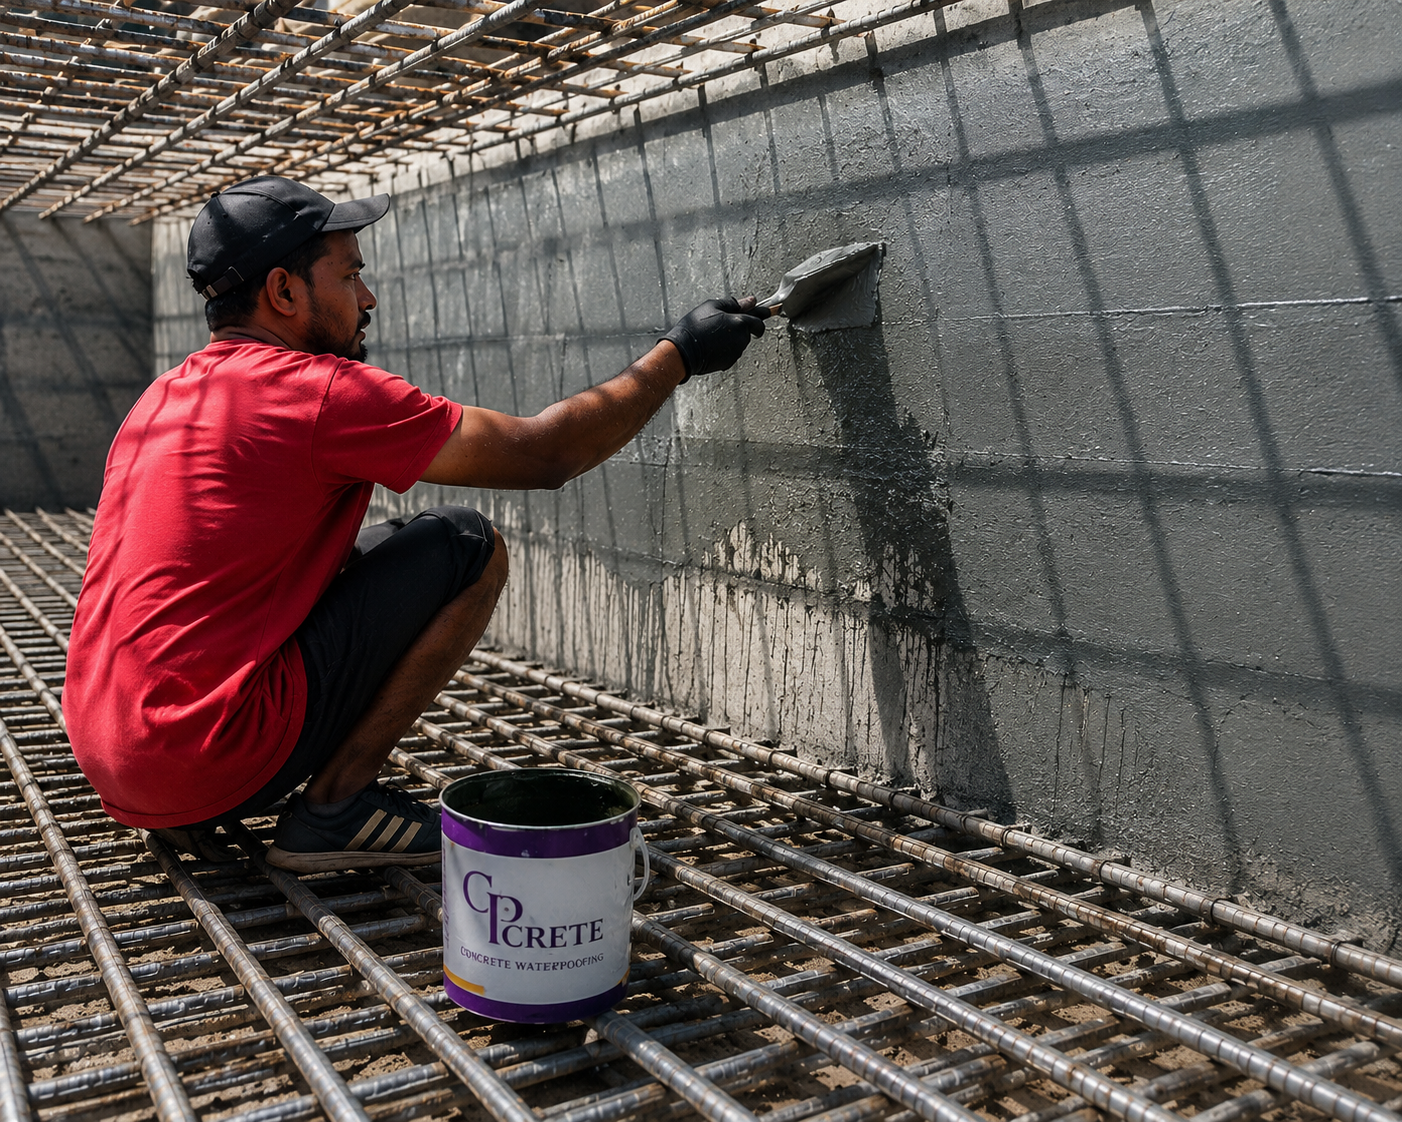
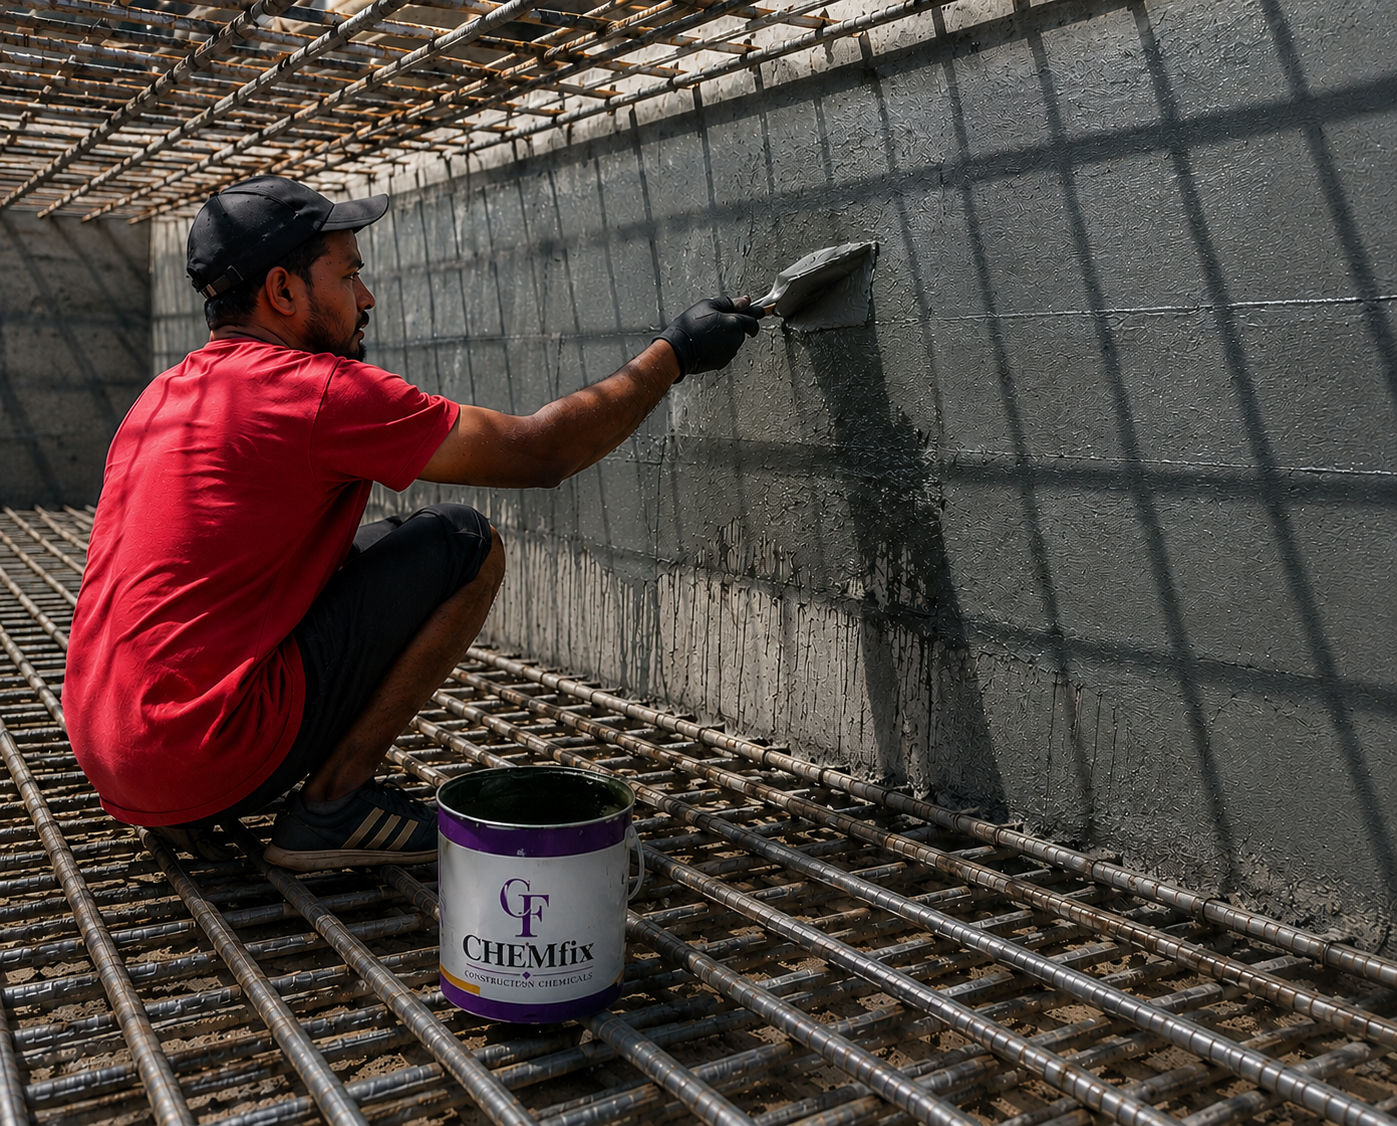
s

diff --git a/src/routes/index.tsx b/src/routes/index.tsx
@@ -1,3 +1,4 @@
+import { useEffect, useMemo, useState } from "react";
 import { Link } from "react-router-dom";
 import { motion } from "framer-motion";
 import { ArrowRight } from "lucide-react";
@@ -13,6 +14,17 @@ import gWaterproof from "@/assessts/waterproofing.png";
 import gCoating from "@/assessts/p-coating.png";
 import gFlooring from "@/assessts/p-floaring.png";
 
+type ProductCardData = {
+  id?: string;
+  slug?: string;
+  title: string;
+  description: string;
+  image?: string;
+  imageUrl?: string;
+};
+
+const API_URL = import.meta.env.VITE_API_URL || "https://chemfix-backend.vercel.app";
+
 const gallery = [
   { src: gDrum, alt: "Industrial chemical drum", span: "sm:row-span-2" },
   { src: gPlant, alt: "Manufacturing plant", span: "" },
@@ -23,6 +35,32 @@ const gallery = [
 ];
 
 export default function HomePage() {
+  const [uploadedProducts, setUploadedProducts] = useState<ProductCardData[]>([]);
+
+  useEffect(() => {
+    const controller = new AbortController();
+
+    fetch(`${API_URL}/api/products`, { signal: controller.signal })
+      .then((response) => (response.ok ? response.json() : []))
+      .then((products) => {
+        if (Array.isArray(products)) {
+          setUploadedProducts(products);
+        }
+      })
+      .catch((error) => {
+        if (error.name !== "AbortError") {
+          setUploadedProducts([]);
+        }
+      });
+
+    return () => controller.abort();
+  }, []);
+
+  const products = useMemo<ProductCardData[]>(
+    () => [...uploadedProducts, ...productCategories],
+    [uploadedProducts],
+  );
+
   return (
     <>
       <PageHero
@@ -42,9 +80,9 @@ export default function HomePage() {
           />
 
           <div className="mt-10 md:mt-16 grid grid-cols-1 sm:grid-cols-2 lg:grid-cols-3 gap-6 xl:gap-8">
-            {productCategories.map((p, i) => (
+            {products.map((p, i) => (
               <motion.article
-                key={p.slug}
+                key={p.id || p.slug || p.title}
                 initial={{ opacity: 0, y: 24 }}
                 whileInView={{ opacity: 1, y: 0 }}
                 viewport={{ once: true, margin: "-60px" }}
@@ -53,7 +91,7 @@ export default function HomePage() {
               >
                 <div className="relative aspect-[4/3] overflow-hidden">
                   <img
-                    src={p.image}
+                    src={p.imageUrl || p.image}
                     alt={p.title}
                     loading={i < 4 ? "eager" : "lazy"}
                     className="w-full h-full object-cover transition-transform duration-[900ms] group-hover:scale-110"